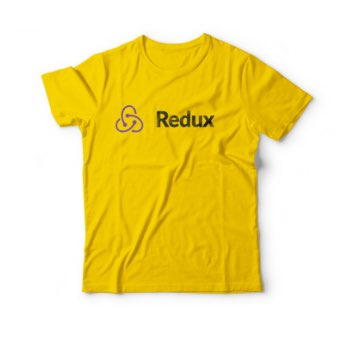
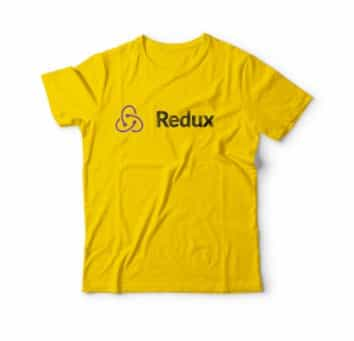
se minificaron las imagenes

diff --git a/FrontendStore.html b/FrontendStore.html
@@ -54,13 +54,13 @@
                               architecto exercitationem aliquid.
                          </p>
                     </div>
-                    <img src="../img/nosotros.jpg" alt="imagen nosotros" class="nosotros__imagen">
+                    <img src="./img/nosotros.jpg" alt="imagen nosotros" class="nosotros__imagen">
                </div>
                <section class="contenedor__comprar">
                     <h2 class="contenedor_titulo">¿Porqué comprar con nosotros?</h2>
                     <div class="bloques">
                          <div class="bloque">
-                              <img class="bloque__imagen" src="img/icono_1.png" alt="porque comprar">
+                              <img class="bloque__imagen" src="./img/icono_1.png" alt="porque comprar">
                               <h3 class="bloque__titulo">El Mejor Precio</h3>
                               <p>
                                    Lorem ipsum dolor sit amet consectetur adipisicing elit. Dolore sit sint necessitatibus porro
@@ -69,7 +69,7 @@
                               </p>
                          </div>
                          <div class="bloque">
-                              <img class="bloque__imagen" src="img/icono_2.png" alt="porque comprar">
+                              <img class="bloque__imagen" src="./img/icono_2.png" alt="porque comprar">
                               <h3 class="bloque__titulo">Para Devs</h3>
                               <p>
                                    Lorem ipsum dolor sit amet consectetur adipisicing elit. Dolore sit sint necessitatibus porro
@@ -78,7 +78,7 @@
                               </p>
                          </div>
                          <div class="bloque">
-                              <img class="bloque__imagen" src="img/icono_3.png" alt="porque comprar">
+                              <img class="bloque__imagen" src="./img/icono_3.png" alt="porque comprar">
                               <h3 class="bloque__titulo">Envio Gratis</h3>
                               <p>
                                    Lorem ipsum dolor sit amet consectetur adipisicing elit. Dolore sit sint necessitatibus porro
@@ -87,7 +87,7 @@
                               </p>
                          </div>
                          <div class="bloque">
-                              <img class="bloque__imagen" src="img/icono_4.png" alt="porque comprar">
+                              <img class="bloque__imagen" src="./img/icono_4.png" alt="porque comprar">
                               <h3 class="bloque__titulo">La mejor calidad</h3>
                               <p>
                                    Lorem ipsum dolor sit amet consectetur adipisicing elit. Dolore sit sint necessitatibus porro
